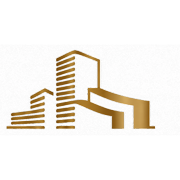
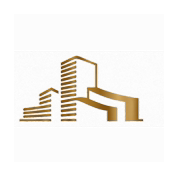
url preview updated

Changed region(s): [[0.0278, 0.2778, 0.8611, 0.7222]]

diff --git a/index.html b/index.html
@@ -22,20 +22,23 @@
     <meta property="og:site_name" content="DesignTech Engineering" />
     <meta property="og:title" content="DesignTech Engineering | Structural Engineering Consultancy Bengaluru" />
     <meta property="og:description" content="Civil and Structural Engineering Consultancy based in Bengaluru. Delivering high-precision structural design, building stability assessments, commercial landmarks, and industrial structures." />
-    <meta property="og:image" content="https://designtechengineering.in/og-image.png" />
-    <meta property="og:image:secure_url" content="https://designtechengineering.in/og-image.png" />
-    <meta property="og:image:type" content="image/png" />
+    <meta property="og:image" content="https://designtechengineering.in/og-image.jpg" />
+    <meta property="og:image:secure_url" content="https://designtechengineering.in/og-image.jpg" />
+    <meta property="og:image:type" content="image/jpeg" />
     <meta property="og:image:width" content="1200" />
     <meta property="og:image:height" content="630" />
     <meta property="og:image:alt" content="DesignTech Engineering — Civil and Structural Engineering Consultants" />
     <meta property="og:locale" content="en_IN" />
+    <meta property="og:logo" content="https://designtechengineering.in/logo-preview.jpg" />
+    <meta name="thumbnail" content="https://designtechengineering.in/og-image.jpg" />
+    <link rel="image_src" href="https://designtechengineering.in/og-image.jpg" />
 
     <!-- Twitter / X Cards -->
     <meta name="twitter:card" content="summary_large_image" />
     <meta name="twitter:url" content="https://designtechengineering.in/" />
     <meta name="twitter:title" content="DesignTech Engineering | Structural Engineering Consultancy Bengaluru" />
     <meta name="twitter:description" content="Civil and Structural Engineering Consultancy based in Bengaluru. Delivering high-precision structural design, building stability assessments, and industrial structures." />
-    <meta name="twitter:image" content="https://designtechengineering.in/og-image.png" />
+    <meta name="twitter:image" content="https://designtechengineering.in/og-image.jpg" />
     <meta name="twitter:image:alt" content="DesignTech Engineering — Civil and Structural Engineering Consultants" />
 
     <meta name="theme-color" content="#F2EFE9" />
@@ -57,12 +60,12 @@
           "logo": {
             "@type": "ImageObject",
             "@id": "https://designtechengineering.in/#logo",
-            "url": "https://designtechengineering.in/Logo.png",
-            "contentUrl": "https://designtechengineering.in/Logo.png",
+            "url": "https://designtechengineering.in/logo-preview.jpg",
+            "contentUrl": "https://designtechengineering.in/logo-preview.jpg",
             "caption": "DesignTech Engineering Logo",
             "inLanguage": "en-IN"
           },
-          "image": "https://designtechengineering.in/og-image.png",
+          "image": "https://designtechengineering.in/og-image.jpg",
           "description": "Civil and Structural Engineering Consultancy based in Bengaluru specializing in structural analysis, building stability assessment, commercial, industrial, institutional, residential, and STP water retaining structures.",
           "telephone": "+91-9035761979",
           "email": "designtecheng.team@gmail.com",

diff --git a/src/hooks/useSEO.ts b/src/hooks/useSEO.ts
@@ -14,7 +14,7 @@ export interface UseSEOOptions {
 }
 
 const DOMAIN = "https://designtechengineering.in";
-const DEFAULT_IMAGE = `${DOMAIN}/og-image.png`;
+const DEFAULT_IMAGE = `${DOMAIN}/og-image.jpg`;
 
 function setMetaTag(selector: string, attribute: string, value: string) {
   let element = document.querySelector(selector);
@@ -84,7 +84,7 @@ export function useSEO({
     setMetaTag('meta[property="og:type"]', "content", "website");
     setMetaTag('meta[property="og:image"]', "content", DEFAULT_IMAGE);
     setMetaTag('meta[property="og:image:secure_url"]', "content", DEFAULT_IMAGE);
-    setMetaTag('meta[property="og:image:type"]', "content", "image/png");
+    setMetaTag('meta[property="og:image:type"]', "content", "image/jpeg");
     setMetaTag('meta[property="og:image:width"]', "content", "1200");
     setMetaTag('meta[property="og:image:height"]', "content", "630");
     setMetaTag('meta[property="og:image:alt"]', "content", "DesignTech Engineering — Civil and Structural Consultants");
